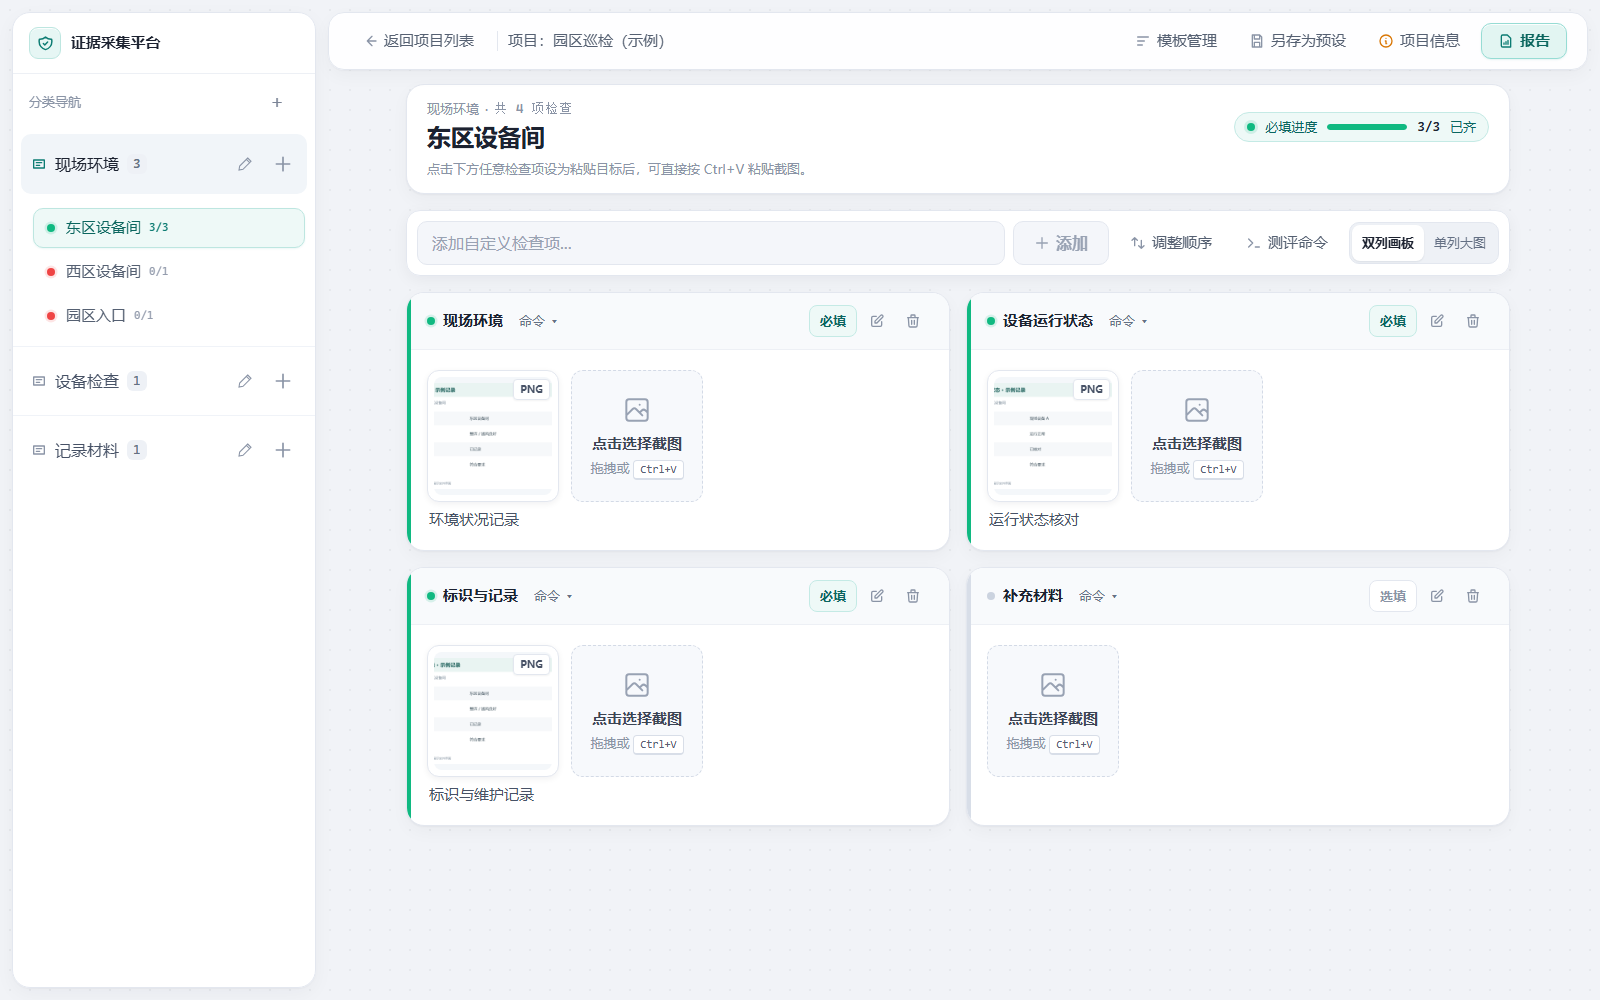
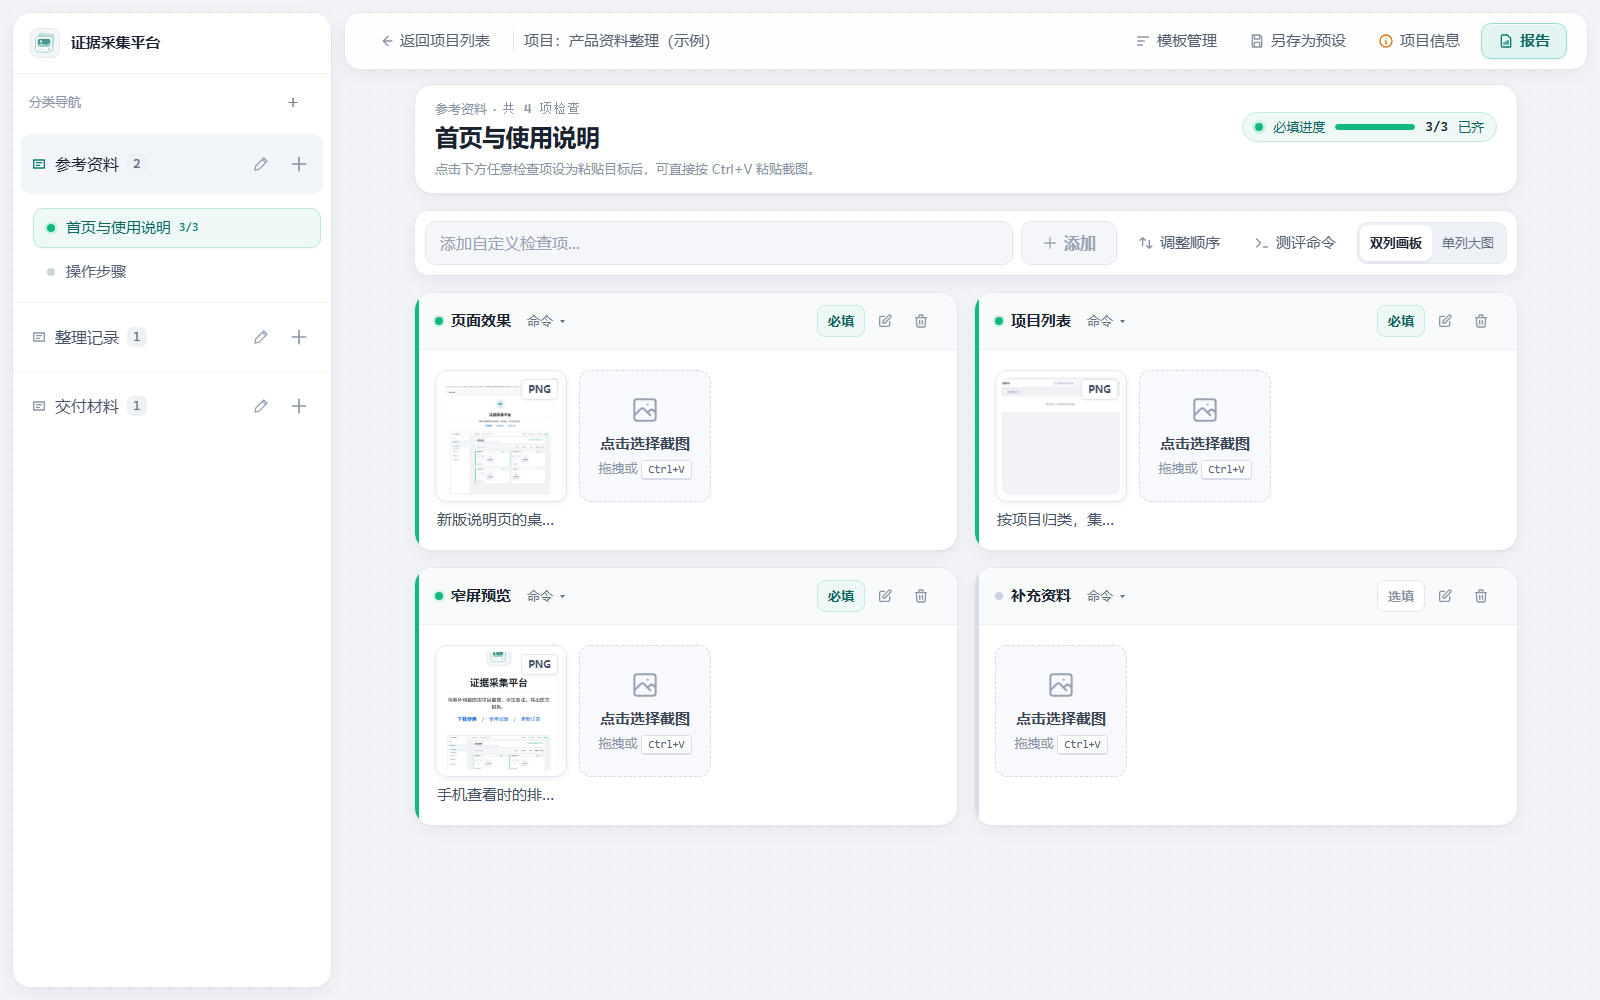
docs: 优化首页排版并突出通用图片整理定位

diff --git a/README.md b/README.md
@@ -1,26 +1,47 @@
-# 证据采集平台
+<p align="center">
+  <img src="public/app-logo.svg" width="88" height="88" alt="证据采集平台 Logo">
+</p>
 
-把零散照片和截图整理成有条理的记录，再导出 Word 报告。适合巡检、验收、现场记录、测评取证等工作，无需注册账号。
+<h1 align="center">证据采集平台</h1>
+
+<p align="center">将照片和截图按项目整理，添加备注，导出图文报告。</p>
+
+<p align="center">
+  <a href="https://github.com/galact-byte/picture_ocr/releases/latest"><strong>下载使用</strong></a>
+  &nbsp;&nbsp; / &nbsp;&nbsp;
+  <a href="docs/user-guide.md">使用指南</a>
+  &nbsp;&nbsp; / &nbsp;&nbsp;
+  <a href="https://github.com/galact-byte/picture_ocr/releases">更新记录</a>
+</p>
+
+<br>
 
 ![证据采集平台工作台：按分类与检查项整理图片，支持双列画板和单列大图](docs/images/workspace.png)
 
-项目以卡片分组展示，打开后按分类、采集对象与检查项收集图片。电脑上传、拖入或粘贴截图，也可以让手机在同一网络下拍照同步。分类、检查项和报告信息均可自定义，配置好后保存为预设，供后续项目或同事复用。
+一个在本机使用的图片整理与报告工具。适合需要收集照片、整理截图、记录说明并汇总成报告的工作，分类、整理清单和报告信息均可按实际需要调整。无需注册账号，数据保存在本机。
+
+## 从收集到交付
+
+- **把图片放对位置**：按项目、分类与检查项整理照片和截图，支持上传、拖入与粘贴，图片旁可填写备注。
+- **让手机参与采集**：电脑与手机连接同一 Wi-Fi 或热点，扫码后拍照、选图，同步到对应检查项，手机无需安装应用。
+- **整理好就能交付**：切换双列画板或单列大图核对内容，填写项目信息后导出 Word 报告，缺少必填截图时会先提醒。
+- **下次接着用清单**：将分类、检查项和报告设置保存为预设，在后续项目中复用，也可以导出给同事。
 
 ## 下载与启动
 
-从 [最新版本](https://github.com/galact-byte/picture_ocr/releases/latest) 下载，改动说明见对应 Release 页面。
+从 [最新版本](https://github.com/galact-byte/picture_ocr/releases/latest) 下载。发布包无需安装开发环境，改动说明见对应 Release 页面。
 
 | 版本 | 启动方式 |
 | --- | --- |
-| Windows 桌面版 | 下载 `.exe`，直接打开。 |
-| Web 版（Windows 启动） | 下载 `picture-ocr-vX.Y.Z.zip`，完整解压后双击 `启动证据采集工具.bat`，在自动打开的浏览器中使用。使用期间保持启动窗口打开。 |
+| **Windows 桌面版** | 下载 `.exe`，直接打开。 |
+| **Web 版（Windows 启动）** | 下载 `picture-ocr-vX.Y.Z.zip`，完整解压后双击 `启动证据采集工具.bat`，在自动打开的浏览器中使用。使用期间保持启动窗口打开。 |
 
-发布包无需安装开发环境。升级前建议导出项目备份；升级 Web 版时沿用原来的浏览器和访问地址，页面未更新可按 `Ctrl+Shift+R` 强制刷新。
+升级前建议导出项目备份。升级 Web 版时沿用原来的浏览器和访问地址，页面未更新可按 `Ctrl+Shift+R` 强制刷新。
 
 ## 开始使用
 
 1. **新建项目**：独立任务选“单系统”，需要集中管理多个任务时选“系统组”。界面中的“系统”和“资产”可以对应实际工作中的采集任务与对象。
-2. **设置采集清单**：添加分类与采集对象，在“模板管理”中设置检查项，或直接为对象添加。默认使用通用模板，不限定行业。
+2. **设置整理清单**：添加分类与对象，在“模板管理”中设置检查项，或直接为对象添加。
 3. **收集图片**：上传、拖入图片，或选中检查项后按 `Ctrl+V` 粘贴；填写图片备注，按需要切换“双列画板”和“单列大图”。
 4. **手机拍照**：点击“手机局域网采集”，让手机和电脑连接同一 Wi-Fi 或热点，扫码后选择对应检查项拍照、选图。手机无需安装应用，采集时保持电脑端运行。
 5. **导出报告**：在“项目信息”中填写报告标题等内容，点击“报告”导出 Word。缺少必填截图时会先提醒。
@@ -39,11 +60,14 @@
 
 ## 使用文档
 
-[使用指南](docs/user-guide.md)提供模板预设、手机采集、批量备份、归档与数据目录恢复的详细操作。需要设备核查命令的工作可选用其中的“测评命令”功能。
+[使用指南](docs/user-guide.md)提供模板预设、手机采集、批量备份、归档与数据目录恢复的详细操作。
 
-## 开发与构建
+<details>
+<summary><strong>开发与构建</strong></summary>
 
 源码运行、构建和发布方式见 [开发与发布说明](docs/releasing.md)。只使用软件请下载上述发布包。
+
+</details>
 
 ## 许可
 
